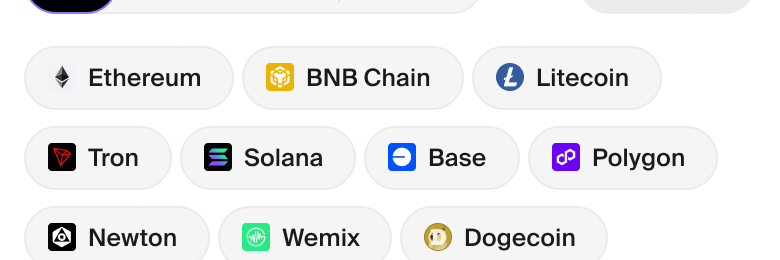
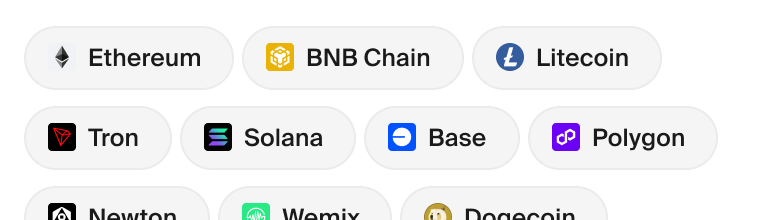
Replace asset modal network strip with clean crop

diff --git a/converter-mobile/buy.css b/converter-mobile/buy.css
@@ -1683,7 +1683,7 @@ body {
   position: absolute;
   left: 0;
   right: 0;
-  top: 270px;
+  top: 244px;
   display: block;
   width: 100%;
   height: auto;
@@ -1857,63 +1857,63 @@ body {
 
 .asset-modal__network-option--solana {
   left: 12px;
-  top: 276px;
+  top: 270px;
   width: 112px;
   height: 32px;
 }
 
 .asset-modal__network-option--arbitrum {
   left: 130px;
-  top: 276px;
+  top: 270px;
   width: 124px;
   height: 32px;
 }
 
 .asset-modal__network-option--polygon {
   left: 260px;
-  top: 276px;
+  top: 270px;
   width: 112px;
   height: 32px;
 }
 
 .asset-modal__network-option--bsc {
   left: 12px;
-  top: 316px;
+  top: 343px;
   width: 132px;
   height: 32px;
 }
 
 .asset-modal__network-option--ethereum {
   left: 150px;
-  top: 316px;
+  top: 343px;
   width: 126px;
   height: 32px;
 }
 
 .asset-modal__network-option--base {
   left: 282px;
-  top: 316px;
+  top: 343px;
   width: 90px;
   height: 32px;
 }
 
 .asset-modal__network-option--optimism {
   left: 12px;
-  top: 356px;
+  top: 417px;
   width: 126px;
   height: 32px;
 }
 
 .asset-modal__network-option--near {
   left: 144px;
-  top: 356px;
+  top: 417px;
   width: 88px;
   height: 32px;
 }
 
 .asset-modal__network-option--stellar {
   left: 238px;
-  top: 356px;
+  top: 417px;
   width: 96px;
   height: 32px;
 }
